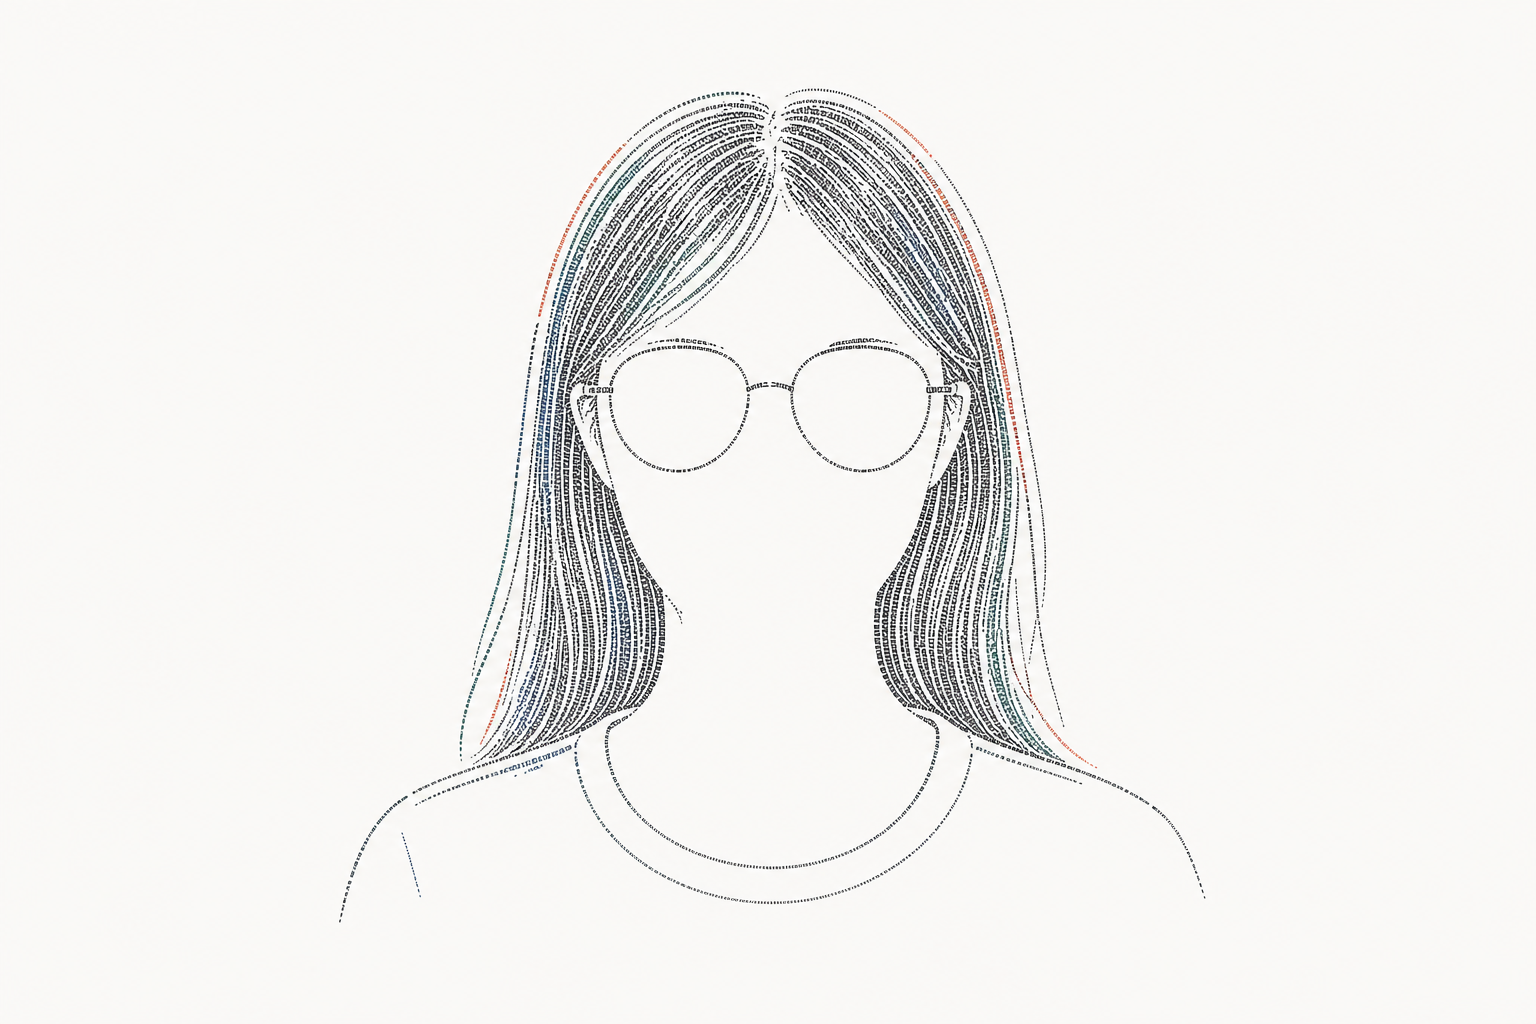
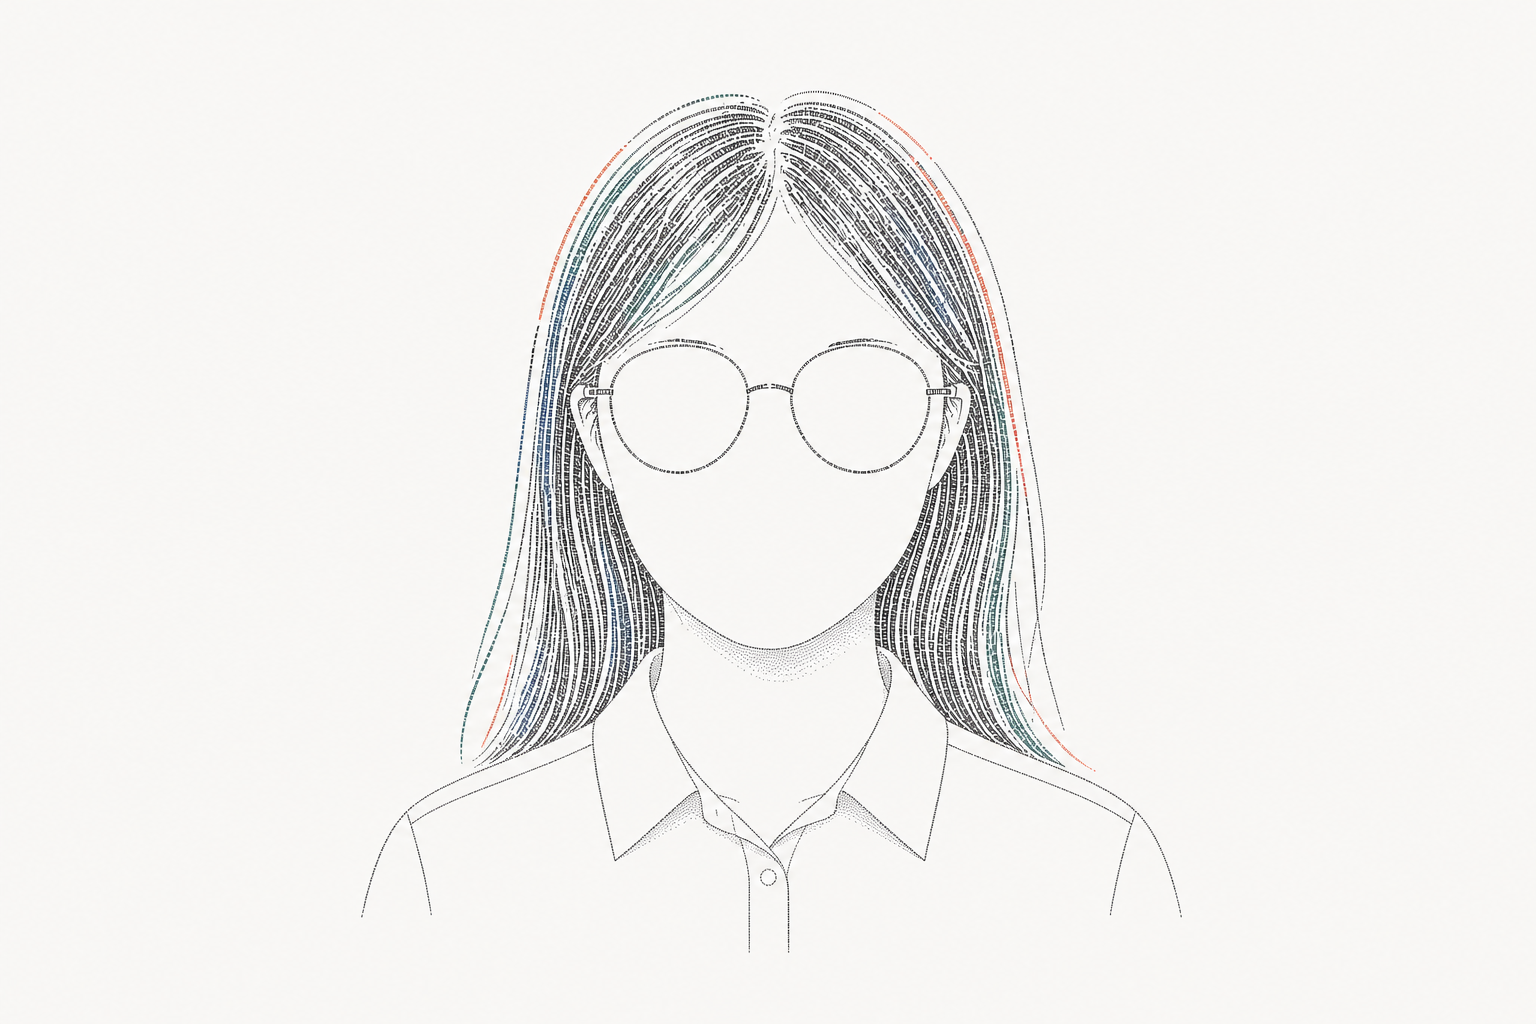
Refine faceless research portrait

diff --git a/index.html b/index.html
@@ -67,7 +67,7 @@
         <p>从数字技术、组织与市场的交汇处出发，以多源数据和计算方法理解平台行为、政策效应与企业创新。</p>
       </div>
       <figure class="wordcloud-art reveal" aria-label="罗玉莹研究方向英文词云图">
-        <img class="wordcloud-portrait" src="assets/research-wordcloud-portrait.png" alt="依据罗玉莹证件照绘制的抽象线稿人像">
+        <img class="wordcloud-portrait" src="assets/research-wordcloud-portrait.png?v=20260825-2" alt="依据罗玉莹证件照绘制的抽象线稿人像">
         <div class="wordcloud-terms" aria-hidden="true">
           <span class="wordcloud-term cloud-forest t01" style="--x:3%;--y:8%;--fs:clamp(22px,3.4vw,54px)">DIGITAL INNOVATION</span>
           <span class="wordcloud-term cloud-ink t02" style="--x:4%;--y:21%;--fs:clamp(29px,4.6vw,72px)">AI MARKETING</span>
